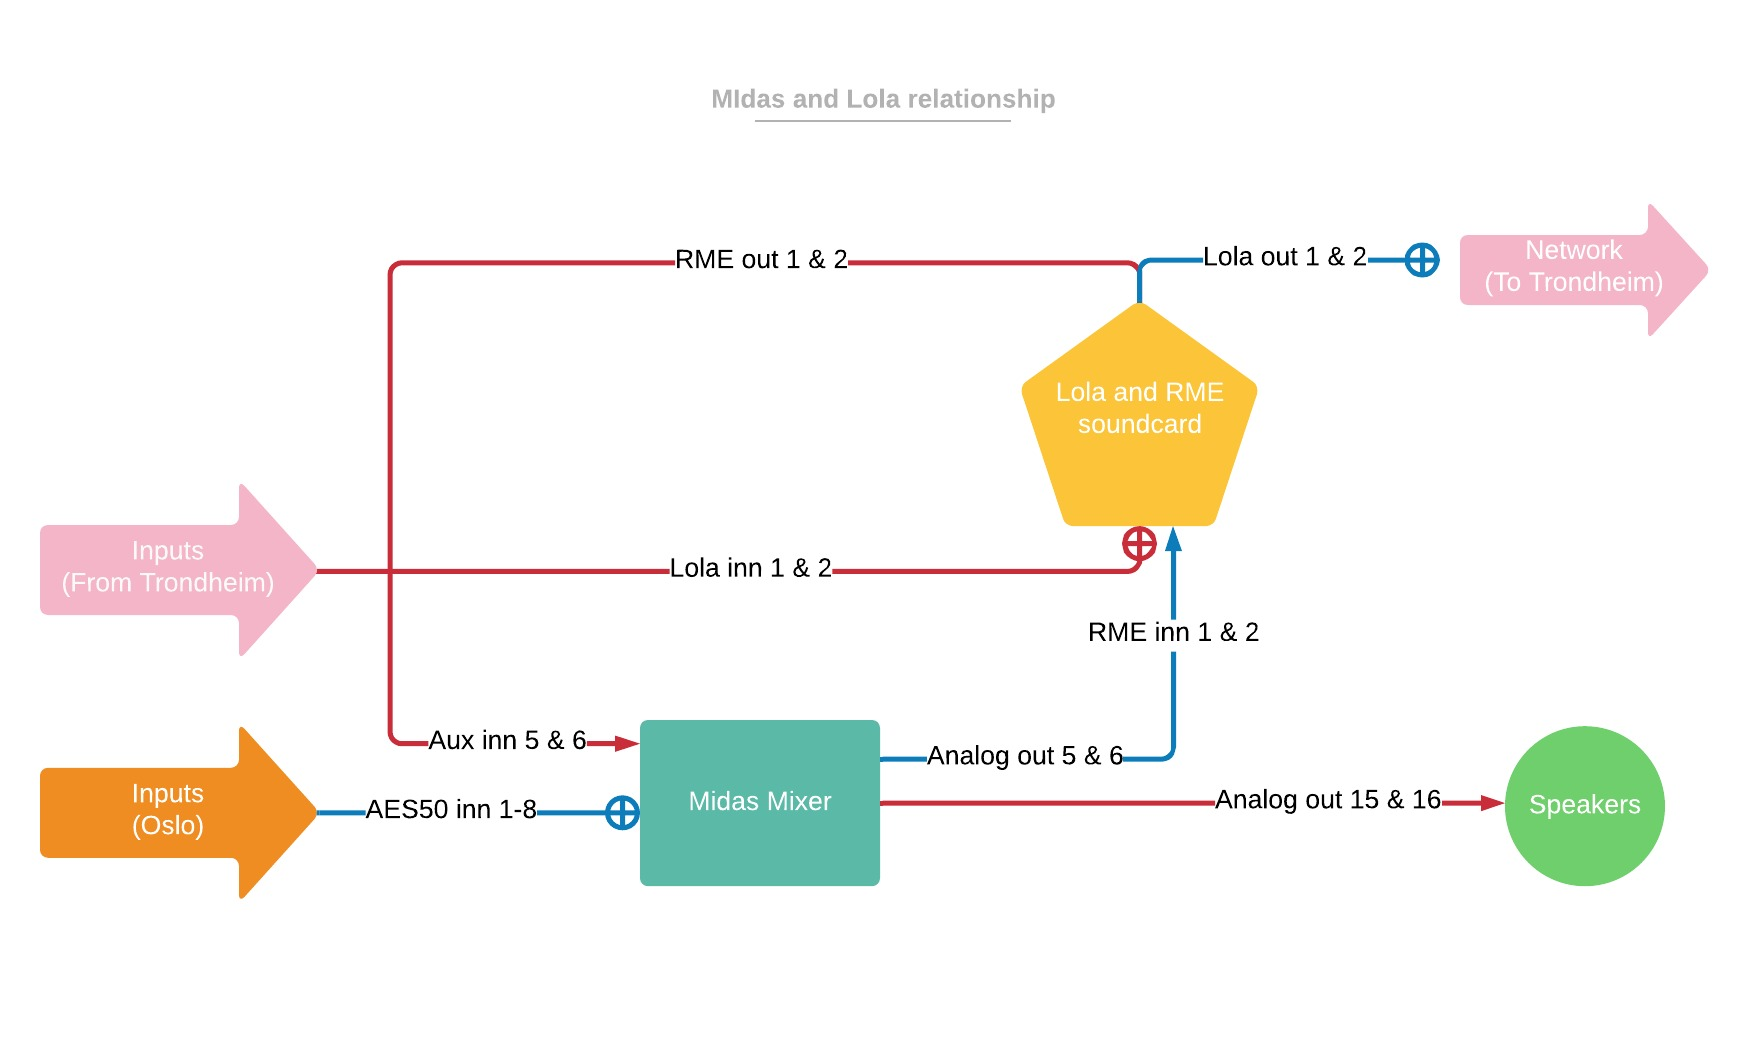
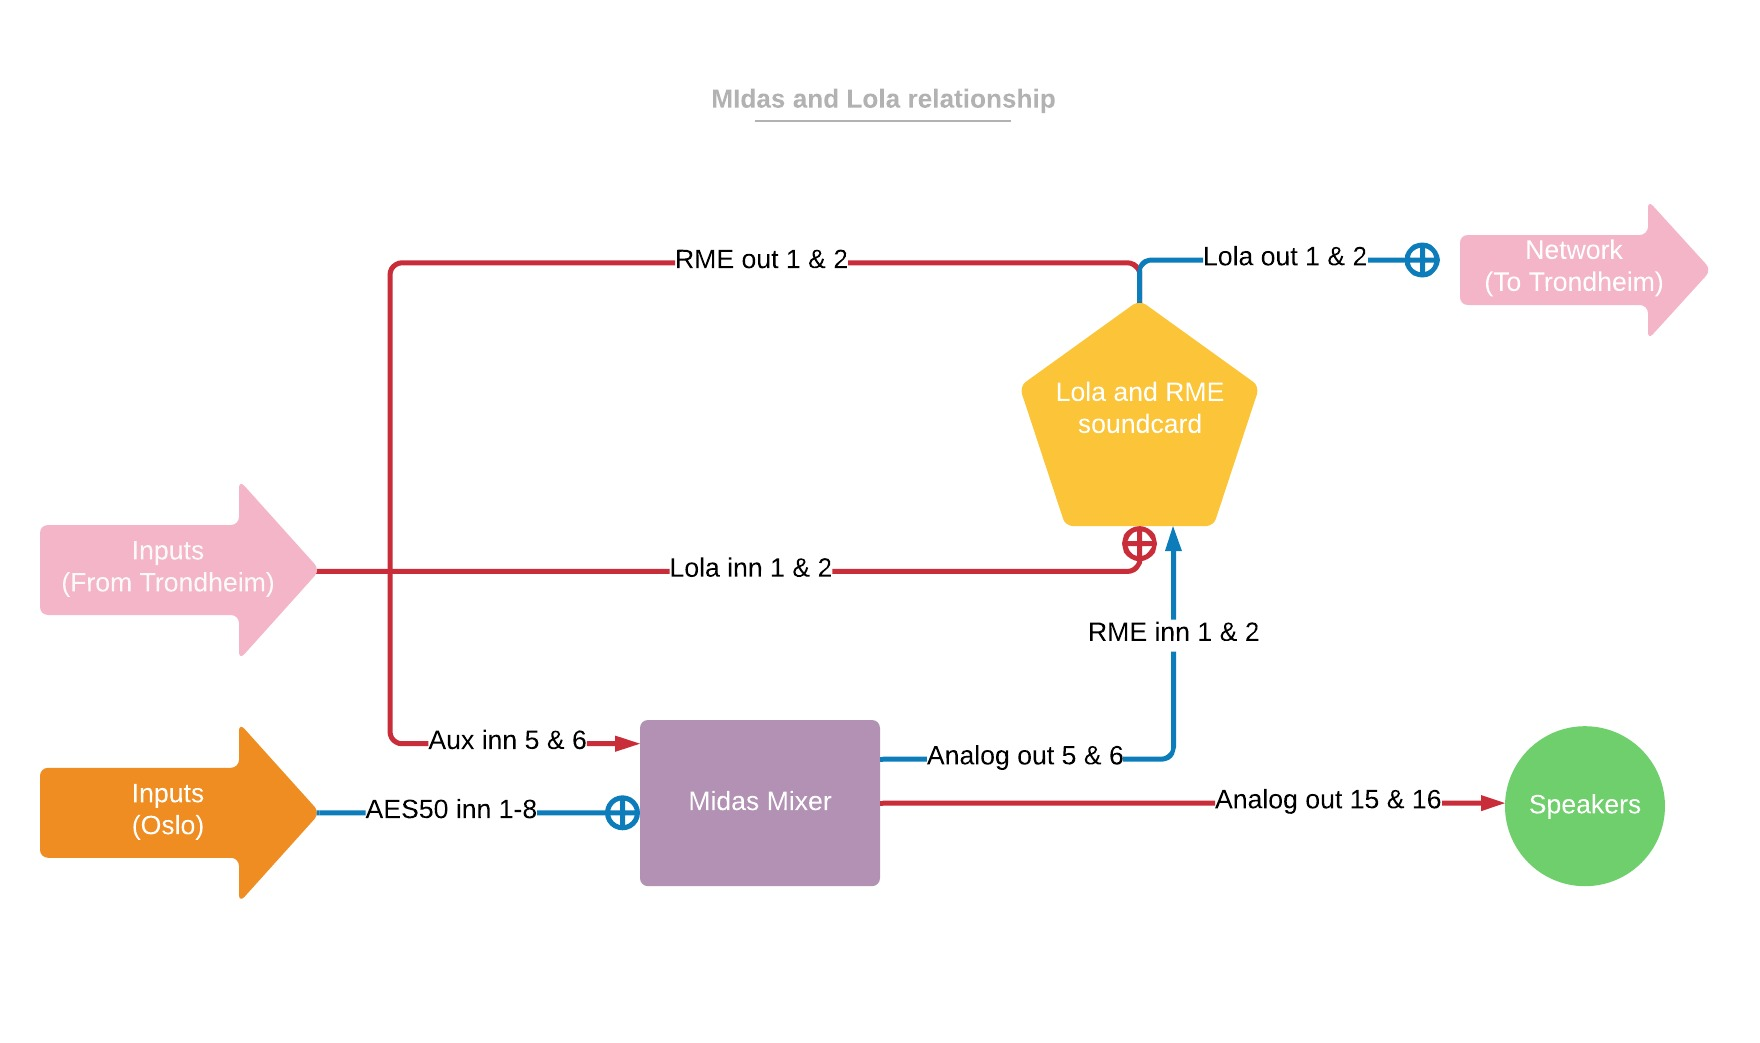
some changes

Changed region(s): [[0.3438, 0.675, 0.5, 0.8591]]

diff --git a/_posts/2019-10-10-Portal-Flowchart.md b/_posts/2019-10-10-Portal-Flowchart.md
@@ -23,7 +23,7 @@ Following Anders Tveit's recommendation, we used [Lucidchart](https://www.lucidc
 
 ![Portal Flowchart](/assets/img/group-c/Portal-flowchart.jpg) 
 
-All the objects in the chart have inputs on the bottom and and outputs on the top. The philosophy behind the object coloring is fairly arbitrary but it tries to descriminate between more "active" machines (yellow), "passive" machines (turkish), output oriented machines (green) and input oriented machines (orange).
+All the objects in the chart have inputs on the bottom and and outputs on the top. The philosophy behind the object coloring is fairly arbitrary but it tries to descriminate between more "active" machines (yellow), "passive" machines (purple), output oriented machines (green), input oriented machines (orange) and IP ports (pink).
 
 The connection wires' shape and color also have meaning. The shape determines what type of signal passes through the wire, and the different colors indicate some signal chain examples, for instance the path in which audio from Trondheim takes before it enters our ears here in Oslo. All of this information can be found in the legend.
 
